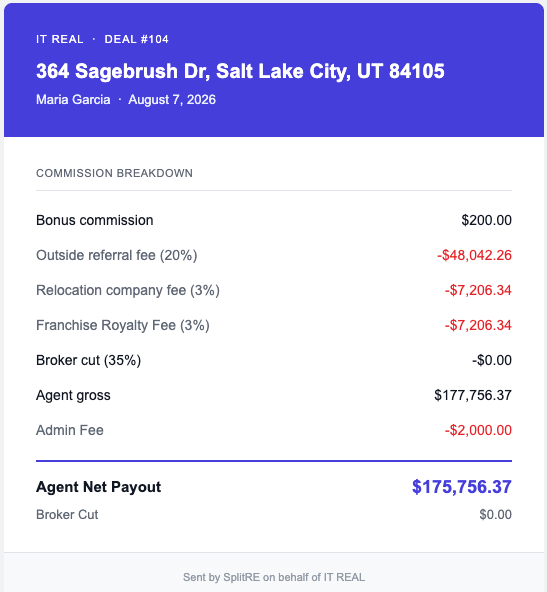
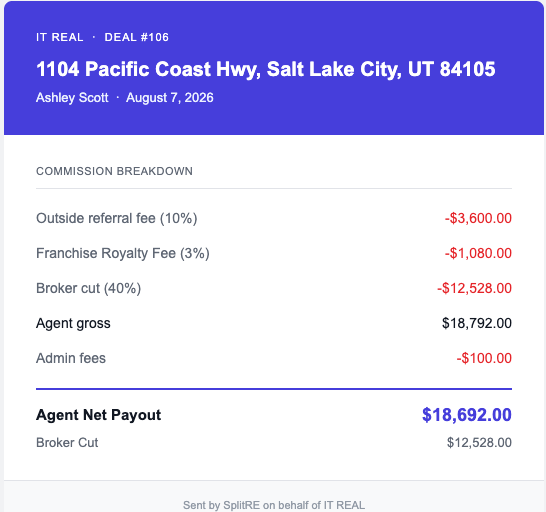
Swap Close-a-Deal and confirmation-email screenshots for a matched, cleaner pair
Replaces both with a new pair showing the same deal (#106, 1104 Pacific
Coast Hwy — \$1.2M sale, \$36,000 GCI, \$18,692 agent net) instead of two
unrelated deals with less representative numbers.

diff --git a/app/features/page.tsx b/app/features/page.tsx
@@ -121,8 +121,8 @@ export default function FeaturesPage() {
             <Image
               src="/screenshots/splitre-commission-deal-entry-calculator.png"
               alt="SplitRE Close a Deal form showing a live payout preview with cap progress, broker cut, and agent net payout updating as the deal is entered"
-              width={1915}
-              height={932}
+              width={1919}
+              height={856}
               className="w-full h-auto"
             />
           </div>
@@ -231,8 +231,8 @@ export default function FeaturesPage() {
               <Image
                 src="/screenshots/splitre-agent-confirmation-email.png"
                 alt="Real SplitRE commission-confirmed email showing the full breakdown and agent net payout"
-                width={547}
-                height={592}
+                width={546}
+                height={512}
                 className="w-full h-auto"
               />
             </div>
